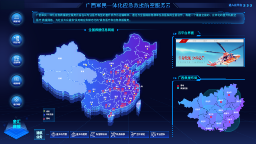
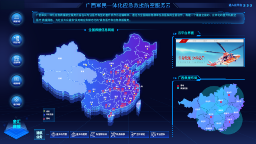
航空服务添加动画

Changed region(s): [[0.75, 0.5833, 0.9688, 0.9444], [0.6875, 0.25, 0.9062, 0.2778], [0.5, 0.9167, 0.5312, 0.9444]]

diff --git a/hangkongfuwu.html b/hangkongfuwu.html
@@ -47,13 +47,13 @@
                         expandWidth: {
                             property: "width",
                             from: circle1.getWidth(), 
-                            to: circle1.getWidth() - 30,
+                            to: circle1.getWidth() - 100,
                             duration: 2000,
                             next: "collapseWidth"
                         },
                         collapseWidth: {
                             property: "width",
-                            from: circle1.getWidth() - 30, 
+                            from: circle1.getWidth() - 100,
                             to: circle1.getWidth(),
                             duration: 2000,
                             next: "expandWidth"
@@ -61,30 +61,46 @@
                         expandHeight: {
                             property: "height",
                             from: circle1.getHeight(), 
-                            to: circle1.getHeight() - 30,
+                            to: circle1.getHeight() - 100,
                             duration: 2000,
                             next: "collapseHeight"
                         },
                         collapseHeight: {
                             property: "height",
-                            from: circle1.getHeight() - 30, 
+                            from: circle1.getHeight() - 100,
                             to: circle1.getHeight(),
                             duration: 2000,
                             next: "expandHeight"
                         },
-                        start: ["expandWidth", "expandHeight"]
+                        show: {
+                            property: "opacity",
+                            accessType: "style",
+                            from: 1,
+                            to: 0,
+                            duration: 2000,
+                            next: 'opa',
+                        },
+                        opa: {
+                            property: "opacity",
+                            accessType: "style",
+                            from: 0,
+                            to: 1,
+                            duration: 2000,
+                            next: 'show',
+                        },
+                        start: ["expandWidth", "expandHeight","show"]
                     })
                     circle2.setAnimation({
                         expandWidth: {
                             property: "width",
                             from: circle2.getWidth(), 
-                            to: circle2.getWidth() - 30,
+                            to: circle2.getWidth() - 100,
                             duration: 2000,
                             next: "collapseWidth"
                         },
                         collapseWidth: {
                             property: "width",
-                            from: circle2.getWidth() - 30, 
+                            from: circle2.getWidth() - 100,
                             to: circle2.getWidth(),
                             duration: 2000,
                             next: "expandWidth"
@@ -92,30 +108,46 @@
                         expandHeight: {
                             property: "height",
                             from: circle2.getHeight(), 
-                            to: circle2.getHeight() - 30,
+                            to: circle2.getHeight() - 100,
                             duration: 2000,
                             next: "collapseHeight"
                         },
                         collapseHeight: {
                             property: "height",
-                            from: circle2.getHeight() - 30, 
+                            from: circle2.getHeight() - 100,
                             to: circle2.getHeight(),
                             duration: 2000,
                             next: "expandHeight"
                         },
-                        start: ["expandWidth", "expandHeight"]
+                        show: {
+                            property: "opacity",
+                            accessType: "style",
+                            from: 1,
+                            to: 0,
+                            duration: 2000,
+                            next: 'opa',
+                        },
+                        opa: {
+                            property: "opacity",
+                            accessType: "style",
+                            from: 0,
+                            to: 1,
+                            duration: 2000,
+                            next: 'show',
+                        },
+                        start: ["expandWidth", "expandHeight","show"]
                     })
                     circle3.setAnimation({
                         expandWidth: {
                             property: "width",
                             from: circle3.getWidth(), 
-                            to: circle3.getWidth() - 30,
+                            to: circle3.getWidth() - 100,
                             duration: 2000,
                             next: "collapseWidth"
                         },
                         collapseWidth: {
                             property: "width",
-                            from: circle3.getWidth() - 30, 
+                            from: circle3.getWidth() - 100,
                             to: circle3.getWidth(),
                             duration: 2000,
                             next: "expandWidth"
@@ -123,30 +155,46 @@
                         expandHeight: {
                             property: "height",
                             from: circle3.getHeight(), 
-                            to: circle3.getHeight() - 30,
+                            to: circle3.getHeight() - 100,
                             duration: 2000,
                             next: "collapseHeight"
                         },
                         collapseHeight: {
                             property: "height",
-                            from: circle3.getHeight() - 30, 
+                            from: circle3.getHeight() - 100,
                             to: circle3.getHeight(),
                             duration: 2000,
                             next: "expandHeight"
                         },
-                        start: ["expandWidth", "expandHeight"]
+                        show: {
+                            property: "opacity",
+                            accessType: "style",
+                            from: 1,
+                            to: 0,
+                            duration: 2000,
+                            next: 'opa',
+                        },
+                        opa: {
+                            property: "opacity",
+                            accessType: "style",
+                            from: 0,
+                            to: 1,
+                            duration: 2000,
+                            next: 'show',
+                        },
+                        start: ["expandWidth", "expandHeight","show"]
                     })
                     circle4.setAnimation({
                         expandWidth: {
                             property: "width",
                             from: circle4.getWidth(), 
-                            to: circle4.getWidth() - 30,
+                            to: circle4.getWidth() - 100,
                             duration: 2000,
                             next: "collapseWidth"
                         },
                         collapseWidth: {
                             property: "width",
-                            from: circle4.getWidth() - 30, 
+                            from: circle4.getWidth() - 100,
                             to: circle4.getWidth(),
                             duration: 2000,
                             next: "expandWidth"
@@ -154,18 +202,34 @@
                         expandHeight: {
                             property: "height",
                             from: circle4.getHeight(), 
-                            to: circle4.getHeight() - 30,
+                            to: circle4.getHeight() - 100,
                             duration: 2000,
                             next: "collapseHeight"
                         },
                         collapseHeight: {
                             property: "height",
-                            from: circle4.getHeight() - 30, 
+                            from: circle4.getHeight() - 100,
                             to: circle4.getHeight(),
                             duration: 2000,
                             next: "expandHeight"
                         },
-                        start: ["expandWidth", "expandHeight"]
+                        show: {
+                            property: "opacity",
+                            accessType: "style",
+                            from: 1,
+                            to: 0,
+                            duration: 2000,
+                            next: 'opa',
+                        },
+                        opa: {
+                            property: "opacity",
+                            accessType: "style",
+                            from: 0,
+                            to: 1,
+                            duration: 2000,
+                            next: 'show',
+                        },
+                        start: ["expandWidth", "expandHeight","show"]
                     })
                     /*circle5.setAnimation({
                         expandWidth: {
